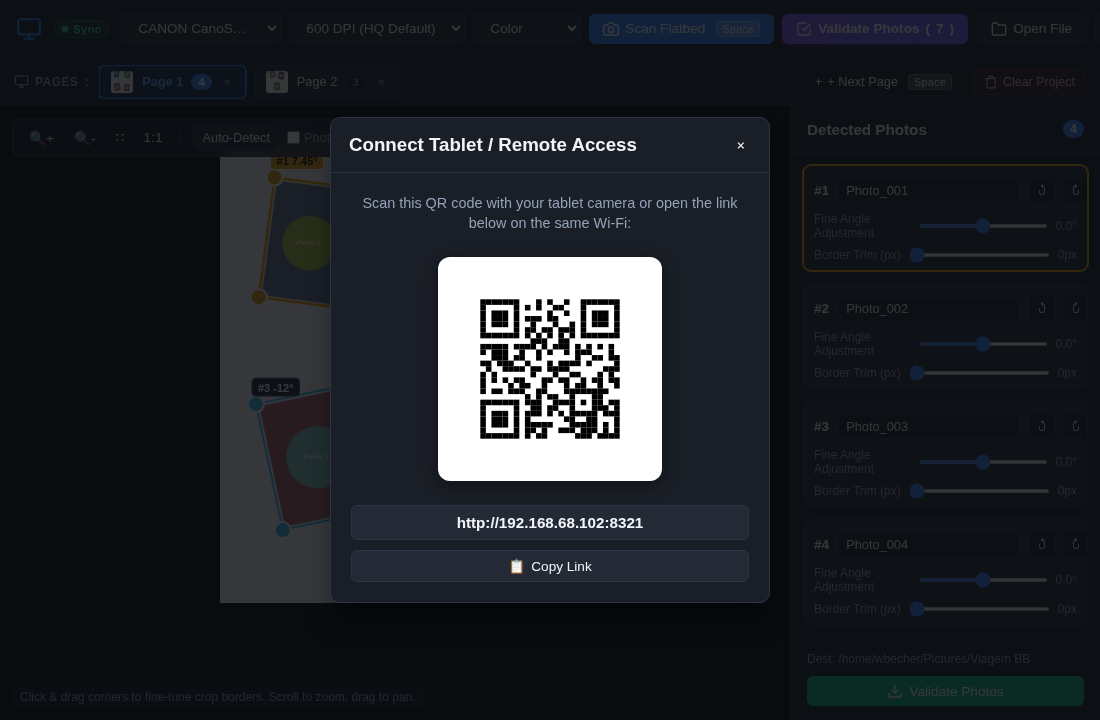
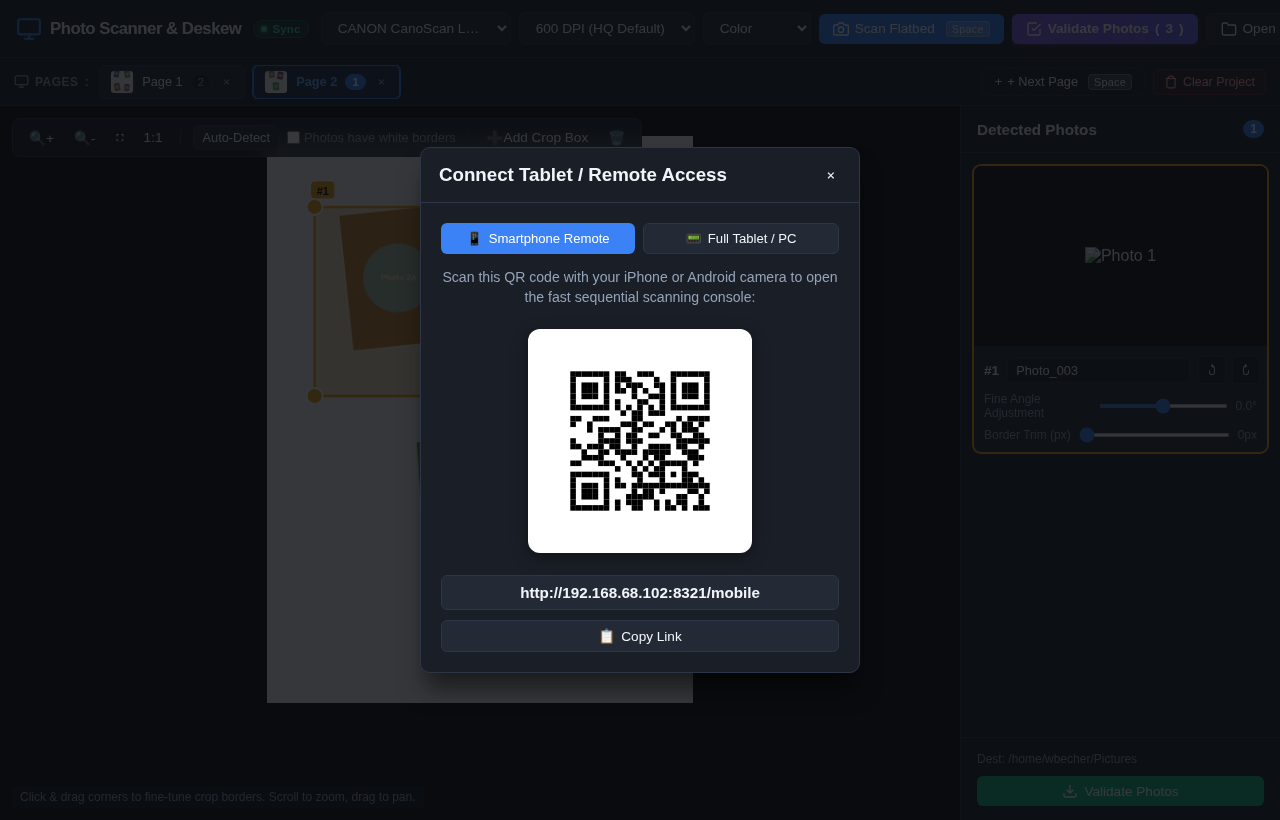
docs: add mobile remote screenshots and showcase to README
- Capture high-resolution screenshot of /mobile sequential scan interface
- Update tablet QR connection modal screenshot with Smartphone Remote tab
- Embed mobile remote screenshot and updated workflow showcase in README.md

diff --git a/static/js/mobile.js b/static/js/mobile.js
@@ -114,6 +114,7 @@ document.addEventListener("DOMContentLoaded", () => {
   let toastTimer = null;
   function showToast(msg, type = "normal") {
     if (!mobileToast) return;
+    if (new URLSearchParams(window.location.search).has("notoast")) return;
     mobileToastMsg.textContent = msg;
     mobileToast.className = "mobile-toast show";
     if (type === "error") mobileToast.classList.add("toast-error");

diff --git a/README.md b/README.md
@@ -36,17 +36,17 @@ Scan multiple photos placed at arbitrary angles on a flatbed scanner in a single
 
 ---
 
-### 📱 Remote Tablet Scanning & Real-Time LAN Sync
+### 📱 Remote Smartphone & Tablet Workflows
 
-| Tablet Touch Interface | Quick Connect QR Code |
-| :---: | :---: |
-| ![Tablet Landscape Interface](docs/img/tablet_landscape.png) | ![Tablet QR Connection](docs/img/tablet_qr_modal.png) |
+| Smartphone Remote (`/mobile`) | Quick Connect QR Code | Tablet Touch Interface |
+| :---: | :---: | :---: |
+| ![Smartphone Remote Interface](docs/img/mobile_remote.png) | ![Smartphone & Tablet QR Connection](docs/img/tablet_qr_modal.png) | ![Tablet Landscape Interface](docs/img/tablet_landscape.png) |
 
-- **Place Your Tablet Next to the Scanner**: Turn an iPad, Android tablet, or phone into a portable remote control scanning console right next to your scanner.
-- **Instant Wi-Fi Pairing**: Click the remote icon or scan the ASCII QR code printed in the terminal to connect instantly on your local network.
-- **Real-Time WebSocket Synchronization**: Any scan, crop edit, or adjustment made on the tablet instantly updates the PC screen in real-time, and vice-versa.
-- **Touch-Optimized Gestures**: Pinch-to-zoom, two-finger pan, and 24px corner handles designed specifically for finger manipulation on capacitive touchscreens.
-- **Headless PC Mode**: Run the server with `--no-browser` on your PC without popping up local windows, managing the entire scanning workflow from your tablet.
+- **Place Your Smartphone Next to the Scanner**: Turn an iPhone or Android phone into a high-speed sequential scanning console right next to your scanner.
+- **Instant Wi-Fi Pairing**: Click the remote icon or scan the QR code to connect instantly on your local network.
+- **Real-Time WebSocket Synchronization**: Any scan triggered on mobile instantly updates the PC screen in real-time, and vice-versa.
+- **Touch-Optimized Gestures on Tablet**: Pinch-to-zoom, two-finger pan, and 24px corner handles designed specifically for finger manipulation on capacitive touchscreens.
+- **Headless PC Mode**: Run the server with `--no-browser` on your PC without popping up local windows, managing the entire scanning workflow remotely.
 
 ---
 
@@ -200,6 +200,7 @@ scanner-photos/
 │       ├── validation_modal.png
 │       ├── tablet_landscape.png
 │       ├── tablet_qr_modal.png
+│       ├── mobile_remote.png
 │       └── folder_browser_modal.png
 ├── src/
 │   └── scanner_photos/
@@ -208,15 +209,20 @@ scanner-photos/
 │       ├── scanner.py       # SANE / scanimage hardware integration
 │       └── vision.py        # OpenCV photo detection, deskewing & PIL export
 ├── static/
-│   ├── index.html           # Single-page application UI
+│   ├── index.html           # Single-page desktop & tablet application UI
+│   ├── mobile.html          # Lightweight mobile smartphone remote console
 │   ├── css/
-│   │   └── style.css        # Modern dark-mode styling & responsive layout
+│   │   ├── style.css        # Modern dark-mode styling & responsive layout
+│   │   └── mobile.css       # Touch-optimized mobile remote styling
 │   └── js/
-│       ├── app.js           # Client orchestration & multi-page session state
+│       ├── app.js           # Desktop orchestration & multi-page session state
+│       ├── mobile.js        # Mobile sequential scan controller & LAN sync
 │       ├── canvas.js        # Interactive HTML5 Canvas coordinate editor
 │       └── i18n.js          # Internationalization dictionary (EN / PT)
 ├── tests/
 │   ├── test_api.py          # FastAPI endpoints & batch export tests
+│   ├── test_remote.py       # Mobile route, QR code, and server-info tests
+│   ├── test_session.py      # Session cache persistence and WebSocket tests
 │   └── test_vision.py       # Computer vision deskew and detection unit tests
 ├── pyproject.toml           # Project metadata & Python dependencies
 ├── build.sh                 # PyInstaller one-click standalone compilation script
